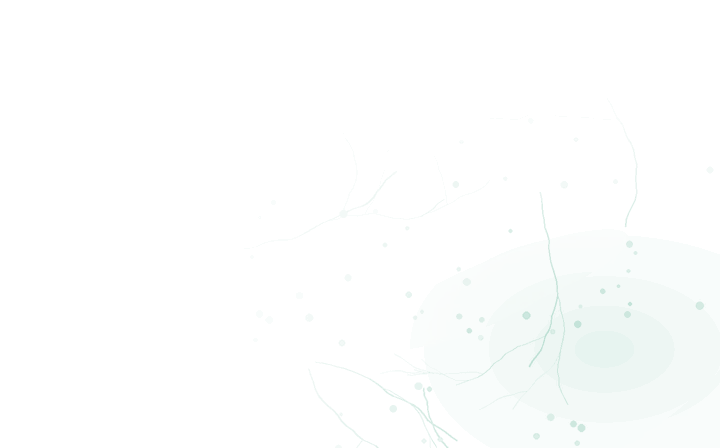
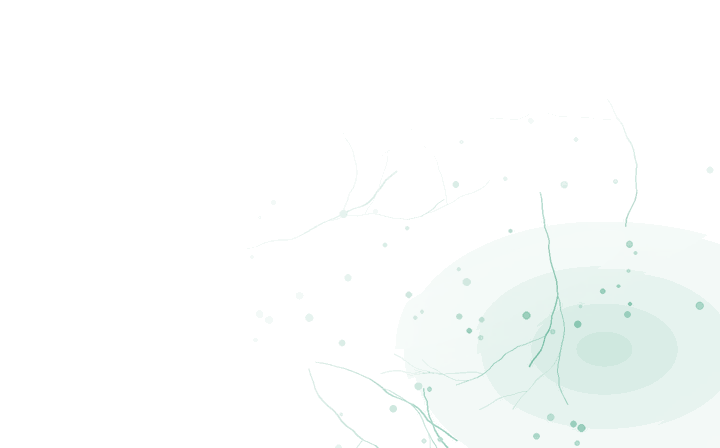
feat(task): 新增即排期（现在→+1h）+ 详情可调时间段
1) 快速新增：写入真实区间 scheduleTask(id, now, now+1h)
   实测 when=00:10、date=当天、开始 00:10 / 结束 01:10、时长 60 分
2) 任务详情新增「时间段」区块（今天与日历共用 WorkTaskDetail，两处同时生效）：
   - 开始/结束各自的日期与时间四个 picker，改任一段其余沿用
   - 结束早于开始自动纠正为开始 +1 小时
   - 快捷时长 30 分 / 1 小时 / 2 小时
   - 实时显示「10/25 09:30 → 10:30 · 1 小时」
3) 修复「今天新增不同步到日历」：原因是旧逻辑写入 when='今天'，
   解析不成时间 → 视为全天任务，日历网格里看不到；现在写入真实时间段后
   实测日历页能显示新增任务
验收：typecheck 0 error；smoke 9/9

diff --git a/src/components/WorkTaskDetail.vue b/src/components/WorkTaskDetail.vue
@@ -14,6 +14,8 @@ import {
   deviceName,
   isoDay,
   removeTask,
+  scheduleTask,
+  taskSpan,
   toggleSub,
   toggleTask,
   uid,
@@ -176,6 +178,74 @@ function applyDate(next: string): void {
 function onPickDate(e: any): void {
   const v = String(e?.detail?.value ?? '')
   if (v !== '') applyDate(v)
+}
+
+/* ── 时间段（开始 / 结束日期与时间） ───────────────────────────────── */
+
+const pad2 = (n: number): string => String(n).padStart(2, '0')
+
+const span = computed(() => {
+  const s = taskSpan(t.value)
+  return s ?? null
+})
+
+function fmtDate(ts: number): string {
+  return isoDay(new Date(ts))
+}
+function fmtTime(ts: number): string {
+  const d = new Date(ts)
+  return `${pad2(d.getHours())}:${pad2(d.getMinutes())}`
+}
+
+const spanLabelText = computed(() => {
+  const s = span.value
+  if (s === null) return '未设置时间段'
+  const a = new Date(s.start)
+  const b = new Date(s.end)
+  const sameDay = isoDay(a) === isoDay(b)
+  const minutes = Math.max(1, Math.round((s.end - s.start) / 60000))
+  const dur = minutes >= 60 ? `${Math.floor(minutes / 60)} 小时${minutes % 60 > 0 ? ` ${minutes % 60} 分` : ''}` : `${minutes} 分钟`
+  const left = `${a.getMonth() + 1}/${a.getDate()} ${fmtTime(s.start)}`
+  const right = sameDay ? fmtTime(s.end) : `${b.getMonth() + 1}/${b.getDate()} ${fmtTime(s.end)}`
+  return `${left} → ${right} · ${dur}`
+})
+
+/** 改开始/结束的日期或时间：四段里改一段，其余沿用当前值 */
+function commitSpan(part: 'startDate' | 'startTime' | 'endDate' | 'endTime', value: string): void {
+  if (!alive.value || value === '') return
+  const cur = span.value ?? { start: Date.now(), end: Date.now() + 3600_000 }
+  let sd = fmtDate(cur.start)
+  let st = fmtTime(cur.start)
+  let ed = fmtDate(cur.end)
+  let et = fmtTime(cur.end)
+  if (part === 'startDate') { sd = value; if (ed < sd) ed = sd }
+  else if (part === 'startTime') st = value
+  else if (part === 'endDate') { ed = value; if (ed < sd) ed = sd }
+  else et = value
+  const start = new Date(`${sd}T${st}:00`).getTime()
+  let end = new Date(`${ed}T${et}:00`).getTime()
+  if (Number.isNaN(start) || Number.isNaN(end)) return
+  if (end <= start) end = start + 3600_000
+  scheduleTask(t.value.id, start, end)
+  haptic('light')
+  toast('时间段已更新')
+}
+
+function onSpanDate(part: 'startDate' | 'endDate', e: any): void {
+  commitSpan(part, String(e?.detail?.value ?? ''))
+}
+
+function onSpanTime(part: 'startTime' | 'endTime', e: any): void {
+  commitSpan(part, String(e?.detail?.value ?? ''))
+}
+
+function bumpMinutes(min: number): void {
+  if (!alive.value) return
+  const cur = span.value ?? { start: Date.now(), end: Date.now() + 3600_000 }
+  const start = cur.start
+  scheduleTask(t.value.id, start, start + min * 60000)
+  haptic('light')
+  toast(min >= 60 ? `时长改为 ${min / 60} 小时` : `时长改为 ${min} 分钟`)
 }
 
 function setTomorrow(): void {
@@ -358,6 +428,37 @@ function askAi(): void {
               </picker>
               <view class="minibtn" @tap="setTomorrow"><text>明天</text></view>
               <view class="minibtn" :class="{ on: t.date === '' }" @tap="clearDate"><text>未排期</text></view>
+            </view>
+
+            <!-- 时间段：开始 / 结束，可直接改日期与时间 -->
+            <view class="cr span-cr">
+              <text class="cl">时间段</text>
+              <view class="spanwrap">
+                <view class="spanline">
+                  <text class="span-k">开始</text>
+                  <picker mode="date" :value="span !== null ? fmtDate(span.start) : todayIso" @change="onSpanDate('startDate', $event)">
+                    <view class="spanchip mono"><text>{{ span !== null ? fmtDate(span.start).slice(5) : '未设置' }}</text></view>
+                  </picker>
+                  <picker mode="time" :value="span !== null ? fmtTime(span.start) : '09:00'" @change="onSpanTime('startTime', $event)">
+                    <view class="spanchip mono"><text>{{ span !== null ? fmtTime(span.start) : '--:--' }}</text></view>
+                  </picker>
+                </view>
+                <view class="spanline">
+                  <text class="span-k">结束</text>
+                  <picker mode="date" :value="span !== null ? fmtDate(span.end) : todayIso" @change="onSpanDate('endDate', $event)">
+                    <view class="spanchip mono"><text>{{ span !== null ? fmtDate(span.end).slice(5) : '未设置' }}</text></view>
+                  </picker>
+                  <picker mode="time" :value="span !== null ? fmtTime(span.end) : '10:00'" @change="onSpanTime('endTime', $event)">
+                    <view class="spanchip mono"><text>{{ span !== null ? fmtTime(span.end) : '--:--' }}</text></view>
+                  </picker>
+                </view>
+                <view class="spanquick">
+                  <view class="minibtn" @tap="bumpMinutes(30)"><text>30 分</text></view>
+                  <view class="minibtn" @tap="bumpMinutes(60)"><text>1 小时</text></view>
+                  <view class="minibtn" @tap="bumpMinutes(120)"><text>2 小时</text></view>
+                </view>
+                <text class="span-now mono">{{ spanLabelText }}</text>
+              </view>
             </view>
           </view>
 
@@ -689,6 +790,22 @@ function askAi(): void {
 .pridot.low { background: var(--t3); }
 
 .date-cr { gap: 6px; }
+
+/* ── 时间段 ─────────────────────────────────────────────────────────── */
+.span-cr { align-items: flex-start; flex-direction: column; }
+.spanwrap { width: 100%; display: flex; flex-direction: column; gap: 7px; }
+.spanline { display: flex; align-items: center; gap: 7px; }
+.span-k { width: 30px; flex: 0 0 30px; font-size: 10px; color: var(--t3); }
+.spanchip {
+  padding: 5px 10px;
+  border-radius: 9px;
+  border: 1px solid var(--bd);
+  background: var(--s2);
+  color: var(--t1);
+  font-size: 11px;
+}
+.spanquick { display: flex; align-items: center; gap: 6px; }
+.span-now { font-size: 9px; color: var(--t3); letter-spacing: 0.02em; }
 
 .datechip {
   display: inline-flex;

diff --git a/src/pages/today/today.vue b/src/pages/today/today.vue
@@ -23,6 +23,7 @@ import {
   historyTasks,
   isoDay,
   removeTask,
+  scheduleTask,
   switchDevice,
   taskSpan,
   tasksOnDay,
@@ -228,7 +229,10 @@ function addQuick(e?: any): void {
   }
   // 目标设备不是当前域时先切域，任务才会落进那台设备的数据里
   if (quickDev.value !== work.deviceId) switchDevice(quickDev.value)
+  // 新增即排期：开始 = 现在，结束 = 现在 + 1 小时（写入真实区间，日历网格也可见）
+  const start = Date.now()
   const task = addTask(title, { date: todayIso.value, when: '今天', dev: deviceName() })
+  scheduleTask(task.id, start, start + 3600_000)
   markFeedback(enteringIds, task.id)
   quick.value = ''
   quickKey.value += 1

diff --git a/tools/moss-render/gen-tex.py b/tools/moss-render/gen-tex.py
@@ -12,18 +12,24 @@ MOSS AI App · 卡片与环境纹理生成器。
   3. **包体**。App 首包预算是 400KB（docs/05 §8），纹理必须能压到几十 KB。
      程序化生成 + WebP 有损压缩（含有损 alpha）可以精确控体积。
 
-## 分层职责（关键）
+## 分层职责
 
-图片负责**质感与结构**，强度由 CSS 的不透明度令牌控制（--tex-*-op）。
-两者分开的原因：同一张图要能被不同尺寸、不同底色的卡片复用，
-如果把强度烤进图片，就只能一图一用，包体会翻倍。
+图片只负责**图案与颜色**，最终强度由 CSS 的 opacity 令牌控制
+（--tex-card-op / --tex-hero-op / --tex-amb-op）。
+
+这个分工是刻意的：
+  - PNG 里的 alpha 是"图案遮罩"（哪里有纹、哪里干净），CSS opacity 是"整体强度"。
+  - 同一张图能被不同尺寸、不同底色的卡片复用，强度可以按场景调；
+    如果把强度烤进图片，就只能一图一用，包体会翻倍。
+  - 换成 <image> 组件 + CSS opacity 后，**整套主题只换一次 opacity 即可**，
+    换肤时不必重新解码图片。
 
 ## 三种角色
 
 | 角色 | 用在哪 | 特征 |
 |---|---|---|
-| card  | 笔记卡 / 资讯卡 / 看板列 / 设置组 | 图案集中在右下角，安静区留给标题摘要 |
-| hero  | 今天页大日期卡 / 我的页控制台卡 / 设备页状态台 | 密度更高，可占据右半幅 |
+| card  | 笔记卡 / 资讯卡 / 看板列 / 设置组 / 会话行 | 图案集中在右下角，安静区留给标题摘要 |
+| hero  | 今天页大日期卡 / 我的页控制台卡 / 设备页状态台 / 专注计时盘 | 密度更高，可占据右半幅 |
 | amb   | 页面级环境层 | 只有雷达弧环与大范围柔光，无细密图案 |
 
 amb 之所以不给密集图案：它铺在**整页**下面，而页面上的散落文字
@@ -64,7 +70,7 @@ OUT = os.path.normpath(os.path.join(HERE, '../../src/static/moss/tex'))
 # 纹理本身是柔和抽象图案，锐度损失看不出来，体积却省一半。
 W_CARD, H_CARD = 720, 448
 W_HERO, H_HERO = 840, 420
-W_AMB, H_AMB = 640, 640
+W_AMB, H_AMB = 480, 480
 
 SS = 2  # 图案绘制时的超采样倍数（抗锯齿）
 
@@ -85,9 +91,9 @@ class Profile:
 
 
 PROFILES = {
-    'card': Profile('card', W_CARD, H_CARD, 1.0, True, False, False, 0.44, 0.05, 20_000),
-    'hero': Profile('hero', W_HERO, H_HERO, 1.5, True, True, False, 0.46, 0.05, 26_000),
-    'amb': Profile('amb', W_AMB, H_AMB, 0.9, False, False, True, 0.72, 0.0, 14_000),
+    'card': Profile('card', W_CARD, H_CARD, 1.0, True, False, False, 0.46, 0.03, 16_000),
+    'hero': Profile('hero', W_HERO, H_HERO, 1.45, True, True, False, 0.50, 0.03, 20_000),
+    'amb': Profile('amb', W_AMB, H_AMB, 0.85, False, False, True, 0.78, 0.0, 8_000),
 }
 
 
@@ -112,26 +118,26 @@ THEMES: list[Theme] = [
     Theme(
         key='moss-dark', skin='moss', mode='dark',
         motif=(126, 255, 205), glow=(70, 227, 166), vignette=(0, 5, 4),
-        motif_alpha=0.30, glow_alpha=0.26, sheen=0.026, seed=20261024,
+        motif_alpha=0.62, glow_alpha=0.30, sheen=0.05, seed=20261024,
         motif_kind='filament',
     ),
     Theme(
         key='moss-light', skin='moss', mode='light',
-        motif=(14, 138, 95), glow=(14, 138, 95), vignette=(96, 124, 112),
-        motif_alpha=0.20, glow_alpha=0.11, sheen=0.030, seed=20261025,
+        motif=(14, 138, 95), glow=(14, 138, 95), vignette=(120, 148, 136),
+        motif_alpha=0.42, glow_alpha=0.22, sheen=0.06, seed=20261025,
         motif_kind='filament',
     ),
     # ── 550W 待机红（工业告警）─────────────────────────────────────────
     Theme(
         key='550w-dark', skin='550w', mode='dark',
         motif=(255, 152, 104), glow=(255, 59, 47), vignette=(8, 3, 2),
-        motif_alpha=0.28, glow_alpha=0.26, sheen=0.022, seed=20261026,
+        motif_alpha=0.60, glow_alpha=0.30, sheen=0.045, seed=20261026,
         motif_kind='crack',
     ),
     Theme(
         key='550w-light', skin='550w', mode='light',
-        motif=(180, 49, 31), glow=(180, 49, 31), vignette=(158, 112, 94),
-        motif_alpha=0.19, glow_alpha=0.10, sheen=0.030, seed=20261027,
+        motif=(180, 49, 31), glow=(180, 49, 31), vignette=(176, 132, 112),
+        motif_alpha=0.40, glow_alpha=0.21, sheen=0.06, seed=20261027,
         motif_kind='crack',
     ),
 ]
@@ -154,7 +160,7 @@ def quiet_mask(w: int, h: int, floor: float) -> np.ndarray:
     这是"不遮挡文字"的结构性保证，而不是靠调低整体不透明度
     （那会让纹理失去存在感）。
 
-    floor 是文字区允许的残留量。card/hero 取 0.05：
+    floor 是文字区允许的残留量。card/hero 取 0.03：
     完全为 0 会让左上出现一块"什么都没发生"的死区，看起来像图片没加载。
     amb 取 0：整页层不留任何图案残留。
     """
@@ -215,7 +221,7 @@ def draw_filament(w: int, h: int, theme: Theme) -> Image.Image:
             y += math.sin(ang) * step
             pts.append((x, y))
         # 越细的枝越透明：避免所有分支一样重，画面会显得平
-        a = max(12, int(max_alpha * (0.42 + 0.58 * (width / 3.0))))
+        a = max(24, int(max_alpha * (0.40 + 0.60 * (width / 3.0))))
         draw.line(pts, fill=rgb + (a,), width=width, joint='curve')
         if depth <= 0:
             return
@@ -272,7 +278,7 @@ def draw_crack(w: int, h: int, theme: Theme) -> Image.Image:
             x += math.cos(ang) * step
             y += math.sin(ang) * step
             pts.append((x, y))
-        a = max(14, int(max_alpha * (0.38 + 0.62 * (width / 3.0))))
+        a = max(28, int(max_alpha * (0.36 + 0.64 * (width / 3.0))))
         draw.line(pts, fill=rgb + (a,), width=width)
         if depth <= 0:
             return
@@ -312,7 +318,7 @@ def draw_hatch(w: int, h: int, theme: Theme) -> Image.Image:
     layer = Image.new('RGBA', (cw, ch), (0, 0, 0, 0))
     draw = ImageDraw.Draw(layer)
     rgb = theme.motif
-    alpha = int(round(theme.motif_alpha * 255 * 0.62))
+    alpha = int(round(theme.motif_alpha * 255 * 0.55))
 
     x0 = int(cw * 0.60)
     y0 = int(ch * 0.54)
@@ -347,14 +353,14 @@ def draw_arcs(w: int, h: int, theme: Theme) -> Image.Image:
     layer = Image.new('RGBA', (cw, ch), (0, 0, 0, 0))
     draw = ImageDraw.Draw(layer)
     rgb = theme.motif
-    max_alpha = int(round(theme.motif_alpha * 255 * 0.42))
+    max_alpha = int(round(theme.motif_alpha * 255 * 0.34))
 
     # 圆心在右下角，弧线向左上扩散
     cx, cy = cw * 1.06, ch * 1.04
     r = cw * 0.20
     i = 0
     while r < cw * 1.5:
-        a = max(8, int(max_alpha * (1.0 - i / 26.0) * rng.uniform(0.75, 1.0)))
+        a = max(10, int(max_alpha * (1.0 - i / 26.0) * rng.uniform(0.75, 1.0)))
         width = max(1, int((2.6 - i * 0.07) * SS))
         draw.ellipse(
             [cx - r, cy - r, cx + r, cy + r],
@@ -370,7 +376,7 @@ def draw_arcs(w: int, h: int, theme: Theme) -> Image.Image:
 # ── 合成 ────────────────────────────────────────────────────────────────
 
 
-def build_texture(theme: Theme, prof: Profile, seed_shift: int) -> Image.Image:
+def build_texture(theme: Theme, prof: Profile) -> Image.Image:
     """
     合成一张 RGBA 纹理。
 
@@ -475,7 +481,7 @@ def main() -> None:
 
     for theme in THEMES:
         for name, prof in PROFILES.items():
-            tex = build_texture(theme, prof, seed_shift=0)
+            tex = build_texture(theme, prof)
             path = os.path.join(OUT, f'{name}-{theme.key}.webp')
             size, q = save_webp(tex, path, quality=74, max_bytes=prof.cap_bytes)
             flag = '  ' if size <= prof.cap_bytes else '⚠ '

diff --git a/tools/moss-render/check-tex.py b/tools/moss-render/check-tex.py
@@ -36,7 +36,8 @@ MOSS AI App · 纹理可读性校验。
 
 ## 三、应用不透明度
 
-图片里的强度不等于最终视觉强度：CSS 会用 --tex-*-op 再乘一层。
+图片里烘焙的是**图案遮罩**（哪里有纹、哪里干净），最终强度由 CSS 的
+opacity 令牌控制（--tex-card-op / --tex-hero-op / --tex-amb-op）。
 必须按最终叠加结果算，否则会出现"校验通过、实际看不清"。
 
 用法：
@@ -97,6 +98,9 @@ TEXT_ZONE = (0.00, 0.62, 0.00, 0.72)
 PATTERN_ZONE = (0.62, 1.00, 0.45, 1.00)
 
 # ── 应用不透明度（与 tokens.scss 的 --tex-*-op 一致）──────────────────
+#
+# 卡片纹理是 <image> 组件，铺在卡片的玻璃渐变**之下**；
+# 所以最终背景 = 纹理（按 op 缩放）→ 玻璃盖在上面 → 页面底色。
 APPLY_OPACITY = {
     'card': 0.85,
     'hero': 1.00,
